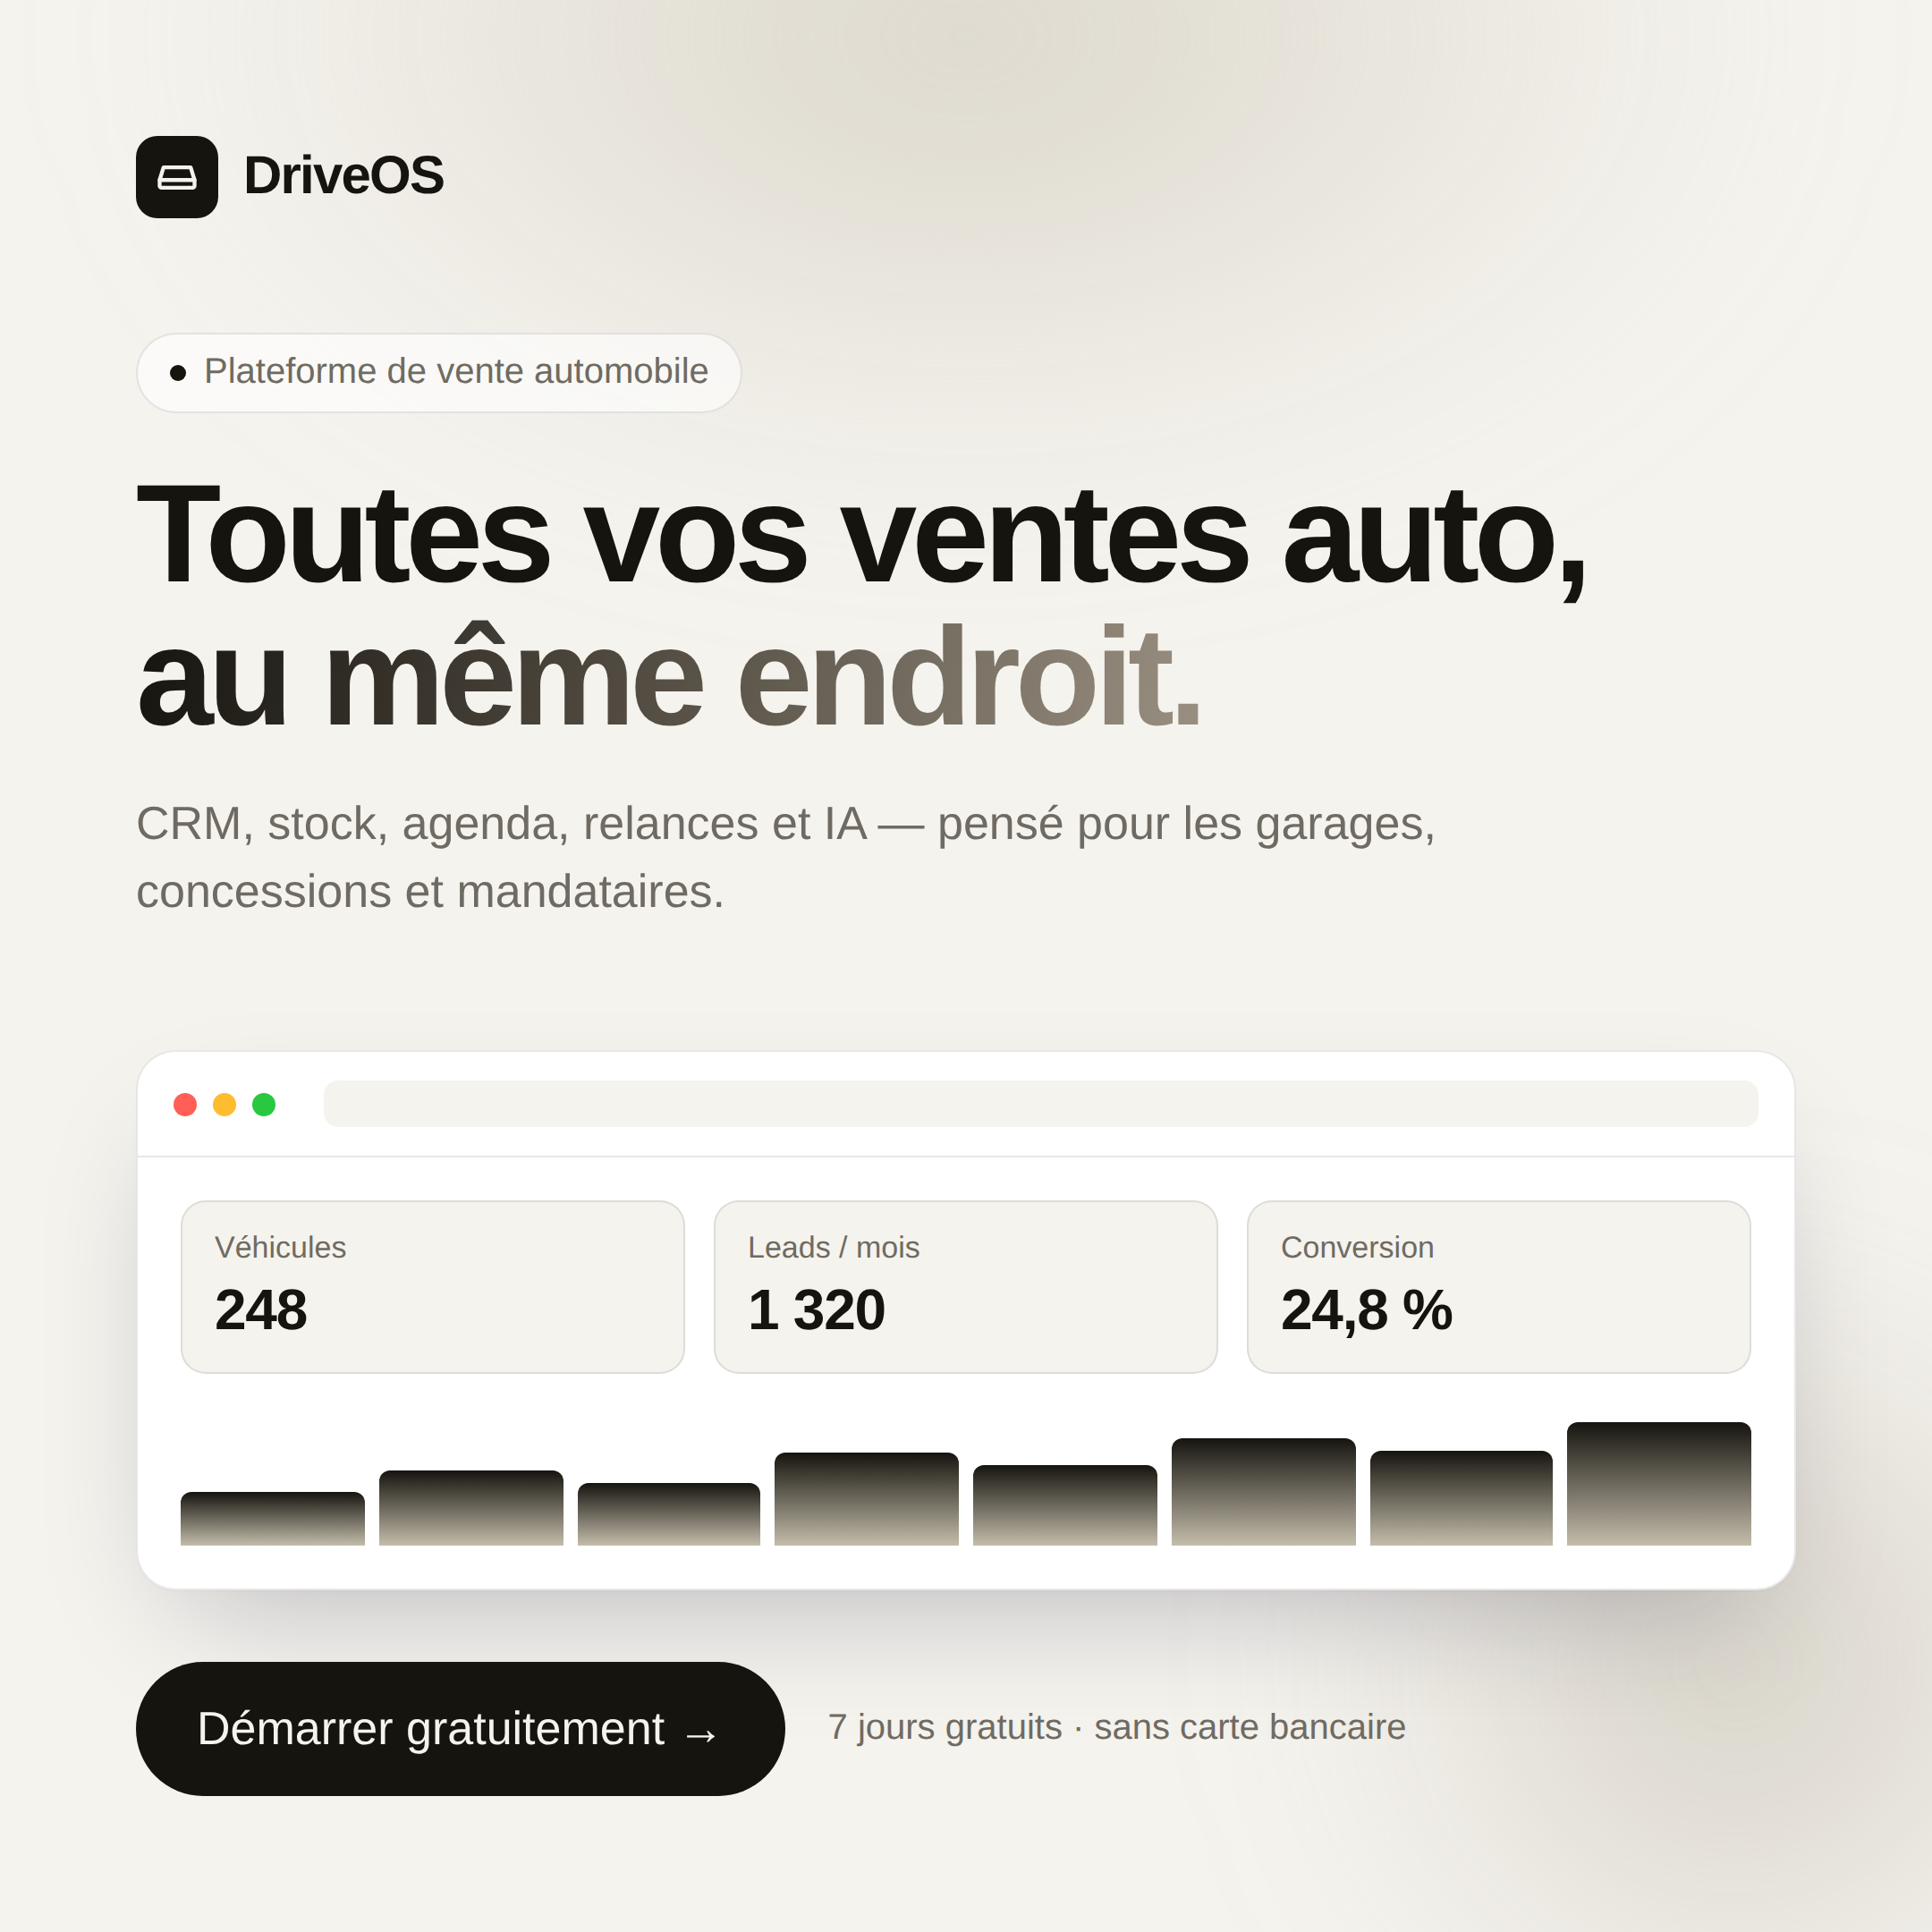
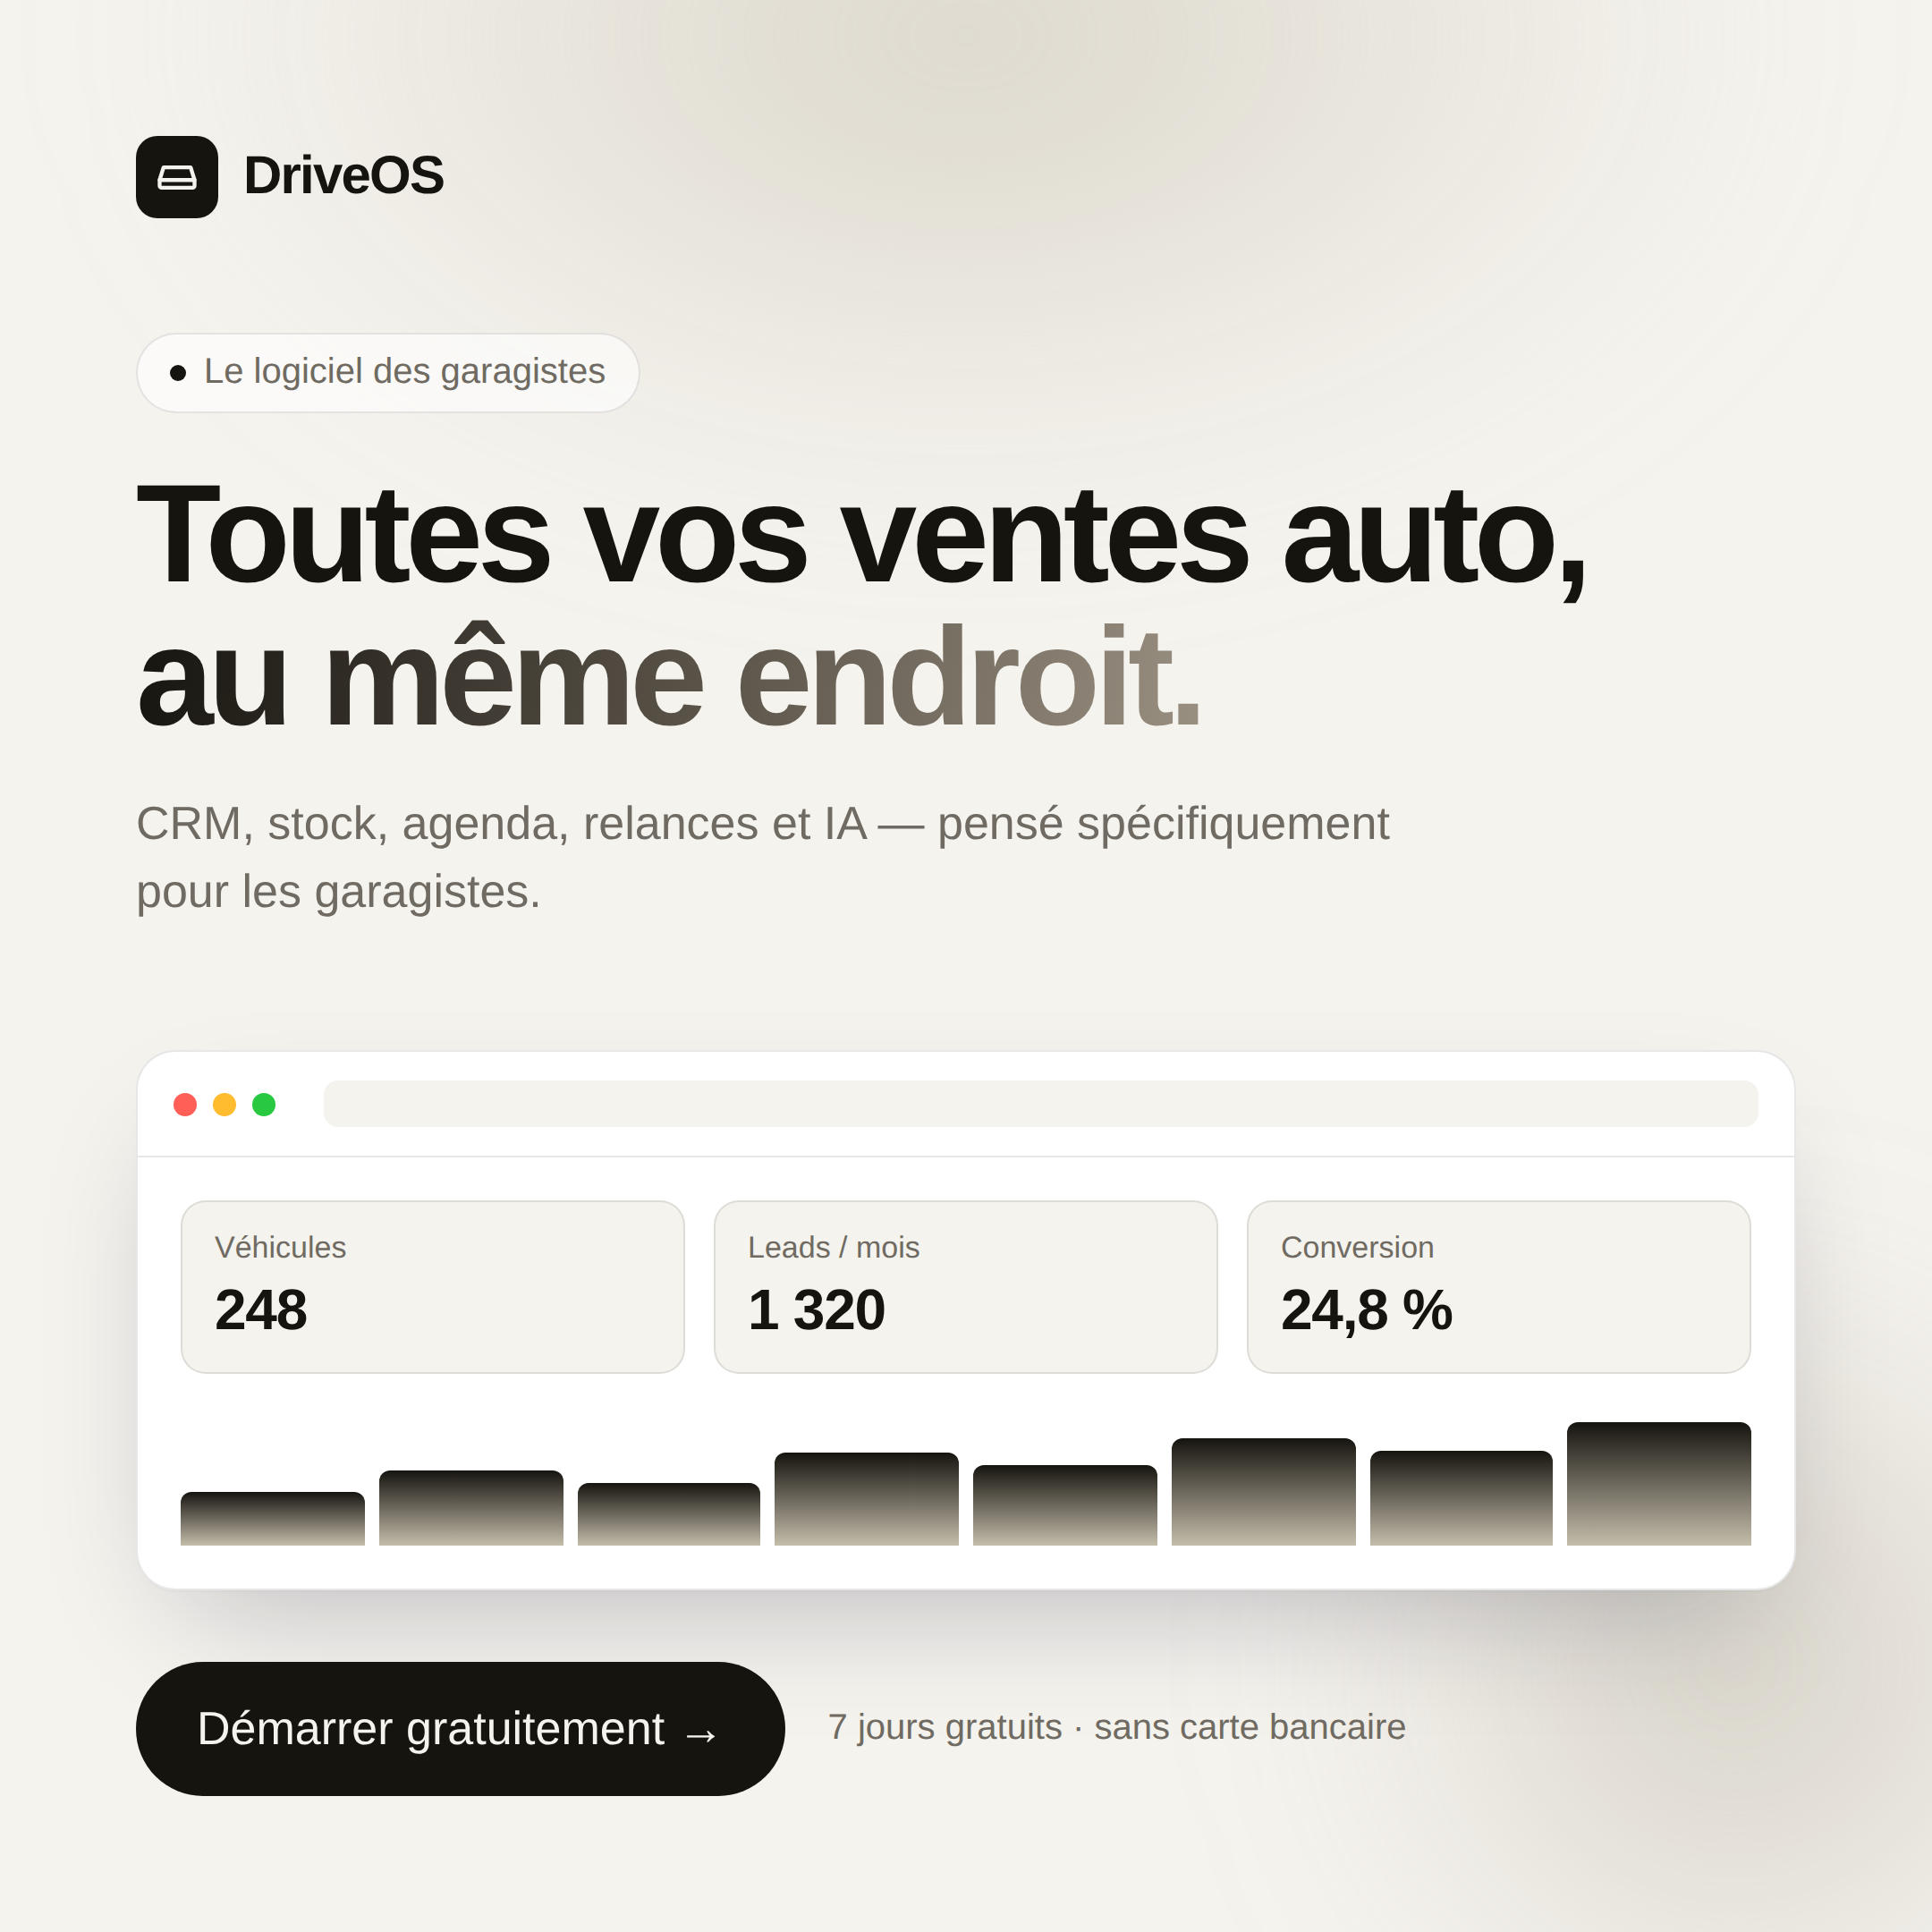
Refocus positioning exclusively on garagistes
Narrow the audience from 'garages, concessions et mandataires' to
garagistes only, across the whole product and marketing:
- Hero eyebrow/subtitle/proof, layout + manifest descriptions, Features
  intro, TrustBar stat label, Footer brand line + CTA + footer note.
- Pricing personas (Starter/Business) and the enterprise line now speak to
  garages/multi-site workshops, not dealer networks.
- Testimonials roles updated to garages.
- README, ad copy (Meta/Google headlines, descriptions, targeting) and the
  square ad creative re-rendered with the garagiste message.

Build passes.

https://claude.ai/code/session_012DDj339eya2WaKTTBRNtTS

Changed region(s): [[0.0931, 0.4343, 0.3722, 0.4963], [0.0931, 0.1861, 0.3722, 0.2171], [0.5583, 0.4032, 0.7444, 0.4343]]

diff --git a/components/Footer.tsx b/components/Footer.tsx
@@ -59,7 +59,7 @@ export default function Footer() {
             Prêt à vendre plus, plus vite ?
           </h2>
           <p className="relative mx-auto mt-4 max-w-md text-pretty text-paper/70">
-            Rejoignez les 400+ professionnels qui pilotent leurs ventes avec
+            Rejoignez les 400+ garagistes qui pilotent leurs ventes avec
             DriveOS. 7 jours gratuits, sans carte bancaire.
           </p>
           <div className="relative mt-8 flex flex-col items-center justify-center gap-3 sm:flex-row">
@@ -91,8 +91,8 @@ export default function Footer() {
               DriveOS
             </div>
             <p className="mt-4 max-w-xs text-sm text-muted">
-              La plateforme de gestion commerciale pensée pour les
-              professionnels de la vente automobile.
+              Le logiciel de gestion commerciale pensé pour les garagistes
+              qui vendent des véhicules.
             </p>
           </div>
 
@@ -117,7 +117,7 @@ export default function Footer() {
 
         <div className="footer-reveal mt-12 flex flex-col items-center justify-between gap-4 border-t border-line pt-8 text-sm text-muted sm:flex-row">
           <span>© {new Date().getFullYear()} DriveOS. Tous droits réservés.</span>
-          <span>Conçu pour les pros de l’automobile · Hébergé en Europe</span>
+          <span>Conçu pour les garagistes · Hébergé en Europe</span>
         </div>
       </div>
     </footer>

diff --git a/components/Hero.tsx b/components/Hero.tsx
@@ -128,7 +128,7 @@ export default function Hero() {
       <div className="mx-auto max-w-3xl text-center">
         <p className="hero-eyebrow mx-auto mb-6 inline-flex items-center gap-2 rounded-full border border-line bg-white/60 px-4 py-1.5 text-[13px] text-muted backdrop-blur">
           <span className="h-1.5 w-1.5 rounded-full bg-ink" />
-          La plateforme de vente automobile nouvelle génération
+          Le logiciel des garagistes nouvelle génération
         </p>
 
         <h1
@@ -141,8 +141,8 @@ export default function Hero() {
 
         <p className="hero-sub mx-auto mt-6 max-w-xl text-pretty text-lg leading-relaxed text-muted">
           DriveOS centralise vos prospects, votre stock, vos rendez-vous et vos
-          analyses. Conçu pour les garages, concessions et mandataires qui
-          veulent vendre plus, plus vite.
+          analyses. Conçu pour les garagistes qui veulent vendre plus de
+          véhicules, plus vite.
         </p>
 
         <div className="mt-9 flex flex-col items-center justify-center gap-3 sm:flex-row">
@@ -182,7 +182,7 @@ export default function Hero() {
         </div>
 
         <p className="hero-proof mt-6 text-sm text-muted">
-          7 jours gratuits · Sans carte bancaire · Déjà adopté par 400+ garages
+          7 jours gratuits · Sans carte bancaire · Déjà adopté par 400+ garagistes
         </p>
       </div>
 

diff --git a/components/Pricing.tsx b/components/Pricing.tsx
@@ -21,7 +21,7 @@ const PLANS: Plan[] = [
   {
     id: "starter",
     name: "Starter",
-    target: "Pour le vendeur indépendant qui démarre",
+    target: "Pour le garagiste qui démarre",
     promise: "Ne perdez plus un seul client.",
     monthly: 29,
     annual: 23,
@@ -63,7 +63,7 @@ const PLANS: Plan[] = [
   {
     id: "business",
     name: "Business",
-    target: "Pour les équipes qui veulent automatiser leur cycle de vente",
+    target: "Pour les garages qui veulent tout automatiser",
     promise: "Vendez en pilote automatique.",
     monthly: 149,
     annual: 119,
@@ -526,7 +526,7 @@ export default function Pricing() {
 
         {/* Enterprise line */}
         <p className="mt-10 text-center text-sm text-muted">
-          Vous gérez un groupe ou un réseau de concessions ?{" "}
+          Vous gérez plusieurs garages ou un atelier multi-sites ?{" "}
           <a href="#" className="font-medium text-ink underline-offset-4 hover:underline">
             Parlons de votre projet
           </a>

diff --git a/components/Features.tsx b/components/Features.tsx
@@ -208,8 +208,8 @@ export default function Features() {
           </h2>
           <p className="mt-4 text-pretty text-lg text-muted">
             Fini Excel, WhatsApp et les notes papier. DriveOS réunit toute votre
-            activité commerciale dans une seule plateforme pensée pour
-            l’automobile.
+            activité commerciale dans une seule plateforme pensée pour les
+            garagistes.
           </p>
         </div>
 

diff --git a/components/Testimonials.tsx b/components/Testimonials.tsx
@@ -14,13 +14,13 @@ const QUOTES = [
     quote:
       "L’import automatique des emails dans le CRM m’a fait gagner près de 5 heures par semaine. Bluffant.",
     name: "Sophie L.",
-    role: "Concession · Bordeaux",
+    role: "Garage · Bordeaux",
   },
   {
     quote:
       "Les relances automatiques ont réveillé des clients que j’avais oubliés. +12 % de ventes en trois mois.",
     name: "Marc D.",
-    role: "Mandataire · Lille",
+    role: "Garage automobile · Lille",
   },
 ];
 

diff --git a/marketing/ads/creative-square.html b/marketing/ads/creative-square.html
@@ -57,9 +57,9 @@
       DriveOS
     </div>
 
-    <span class="eyebrow"><span class="dot"></span> Plateforme de vente automobile</span>
+    <span class="eyebrow"><span class="dot"></span> Le logiciel des garagistes</span>
     <h1>Toutes vos ventes auto,<br><span class="grad">au même endroit.</span></h1>
-    <p class="sub">CRM, stock, agenda, relances et IA — pensé pour les garages, concessions et mandataires.</p>
+    <p class="sub">CRM, stock, agenda, relances et IA — pensé spécifiquement pour les garagistes.</p>
 
     <div class="window">
       <div class="winbar"><span class="tl" style="background:#ff5f57"></span><span class="tl" style="background:#febc2e"></span><span class="tl" style="background:#28c840"></span><div class="url"></div></div>

diff --git a/app/layout.tsx b/app/layout.tsx
@@ -11,7 +11,7 @@ const inter = Inter({
 export const metadata: Metadata = {
   title: "DriveOS — Pilotez toutes vos ventes automobiles",
   description:
-    "DriveOS centralise vos prospects, votre stock, vos rendez-vous et vos analyses. La plateforme moderne pour garages, concessions et mandataires.",
+    "DriveOS centralise vos prospects, votre stock, vos rendez-vous et vos analyses. Le logiciel moderne pensé pour les garagistes.",
   applicationName: "DriveOS",
   appleWebApp: {
     capable: true,

diff --git a/app/manifest.ts b/app/manifest.ts
@@ -5,7 +5,7 @@ export default function manifest(): MetadataRoute.Manifest {
     name: "DriveOS — Gestion des ventes automobiles",
     short_name: "DriveOS",
     description:
-      "Centralisez vos prospects, votre stock, vos rendez-vous et vos analyses. La plateforme moderne pour les pros de l'automobile.",
+      "Centralisez vos prospects, votre stock, vos rendez-vous et vos analyses. Le logiciel moderne pensé pour les garagistes.",
     start_url: "/",
     display: "standalone",
     background_color: "#f5f3ee",

diff --git a/components/TrustBar.tsx b/components/TrustBar.tsx
@@ -6,7 +6,7 @@ import { gsap, useGSAP, ScrollTrigger } from "@/lib/gsap";
 type Stat = { value: number; decimals?: number; prefix?: string; suffix?: string; label: string };
 
 const STATS: Stat[] = [
-  { value: 400, suffix: "+", label: "Professionnels équipés" },
+  { value: 400, suffix: "+", label: "Garagistes équipés" },
   { value: 12000, label: "Véhicules gérés" },
   { value: 38000, label: "Relances automatisées" },
   { value: 4.9, decimals: 1, suffix: "/5", label: "Satisfaction client" },

diff --git a/marketing/ads/copy.md b/marketing/ads/copy.md
@@ -1,7 +1,8 @@
 # DriveOS — Textes publicitaires
 
 Identité : noir / blanc / beige grisé. Ton : pro, direct, orienté bénéfice.
-Promesse clé : centraliser CRM + stock + relances + IA pour les pros de l'auto.
+Cible : **garagistes uniquement**.
+Promesse clé : centraliser CRM + stock + relances + IA pour les garagistes.
 Offre : **7 jours gratuits, sans carte bancaire.**
 
 ---
@@ -18,19 +19,19 @@ dans une seule plateforme — et l'IA s'occupe du travail répétitif.
 ### Texte principal — variante B (gain de temps)
 Et si vos emails clients devenaient automatiquement des prospects, et vos
 relances s'écrivaient toutes seules ?
-DriveOS le fait. CRM, stock véhicules, agenda et IA, pensés pour les garages,
-concessions et mandataires.
+DriveOS le fait. CRM, stock véhicules, agenda et IA, pensés spécifiquement
+pour les garagistes.
 Essayez gratuitement pendant 7 jours.
 
 ### Texte principal — variante C (preuve sociale)
-400+ professionnels de l'automobile pilotent déjà leurs ventes avec DriveOS.
+400+ garagistes pilotent déjà leurs ventes avec DriveOS.
 Moins d'administratif, plus de ventes : centralisez tout et laissez l'IA
 prioriser vos relances.
 Démarrez gratuitement — 7 jours offerts.
 
 ### Titres (Headlines)
-- Toutes vos ventes auto, au même endroit
-- Le CRM pensé pour l'automobile
+- Le logiciel des garagistes
+- Le CRM pensé pour les garagistes
 - Fini Excel et les relances oubliées
 - Une IA qui vend avec vous
 
@@ -45,24 +46,24 @@ S'inscrire  /  En savoir plus
 ## Google Ads — Responsive Search Ad
 
 ### Titres (≤ 30 caractères)
-- DriveOS — CRM Auto Tout-en-1
+- DriveOS — Logiciel Garagiste
 - Vendez Plus de Véhicules
 - Fini Excel et les Oublis
-- CRM Garages & Concessions
+- Le CRM des Garagistes
 - Relances Auto par IA
 - Gérez Stock, Leads & Ventes
-- Logiciel Vente Automobile
+- Logiciel pour Garagistes
 - Pipeline Prospects Clair
-- IA pour Vendeurs Auto
+- IA pour Garagistes
 - Tout Votre Stock à Jour
 - Essai Gratuit 7 Jours
 - Sans Carte Bancaire
 - Plus de Ventes, Moins d'Admin
-- Pour Mandataires & Concess.
+- Pensé pour les Garagistes
 - Démarrez en 5 Minutes
 
 ### Descriptions (≤ 90 caractères)
-- Centralisez prospects, stock, agenda et relances. Pensé pour les pros de l'auto.
+- Centralisez prospects, stock, agenda et relances. Pensé pour les garagistes.
 - L'IA rédige vos relances et priorise vos leads. Vous validez, vous vendez plus.
 - Démarrez en quelques minutes. 7 jours gratuits, sans carte bancaire.
 - Fini Excel et WhatsApp. Toute votre activité sur une seule plateforme.
@@ -71,10 +72,10 @@ S'inscrire  /  En savoir plus
 
 ## Pistes de ciblage (suggestions)
 
-- **Audiences Meta** : intérêts « vente de véhicules d'occasion », « garage
-  automobile », « concession », gérants de TPE/PME auto, mandataires.
-- **Google Search** : mots-clés « logiciel garage », « CRM automobile »,
-  « logiciel gestion concession », « logiciel vente voiture occasion ».
+- **Audiences Meta** : gérants de garage automobile, garagistes indépendants,
+  garages qui vendent des véhicules d'occasion, intérêts « mécanique auto ».
+- **Google Search** : mots-clés « logiciel garage », « logiciel garagiste »,
+  « CRM garage automobile », « logiciel gestion garage », « logiciel vente voiture occasion ».
 - **Accroche A/B** : tester l'angle « gain de temps / IA » vs « fini Excel ».
 - **Page de destination** : la landing DriveOS, ancre `#pricing` pour les
   campagnes orientées conversion.

diff --git a/README.md b/README.md
@@ -1,5 +1,5 @@
 # DriveOS
-DriveOS est une plateforme moderne de gestion des ventes automobiles conçue pour les garages, concessionnaires et vendeurs de véhicules. Gérez vos prospects, votre stock, vos rendez-vous, vos ventes, vos documents et vos analyses depuis une seule plateforme.
+DriveOS est le logiciel moderne de gestion commerciale conçu spécifiquement pour les garagistes. Gérez vos prospects, votre stock de véhicules, vos rendez-vous, vos ventes, vos documents et vos analyses depuis une seule plateforme.
 
 ## Développement
 